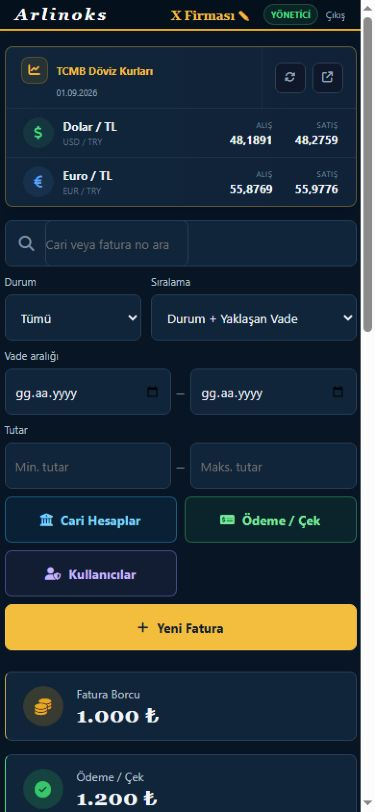
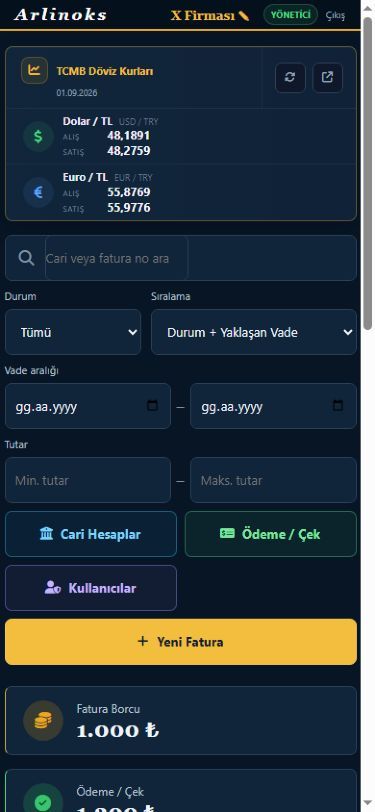
Döviz alış satış kurlarını sıkılaştır

diff --git a/index.html b/index.html
@@ -744,17 +744,28 @@
       max-width: none; min-height: 0; color: #8ea0b4; font-size: 9px;
       line-height: 1.25; text-align: left;
     }
-    .kur-satirlar { min-width: 0; display: grid; grid-template-columns: repeat(2, minmax(0,1fr)); }
+    .kur-satirlar {
+      min-width: 0; display: grid; grid-template-columns: repeat(2, minmax(205px, 240px));
+      justify-content: center;
+    }
     .kur-satir {
-      grid-template-columns: 32px minmax(86px,1fr) minmax(58px,auto) minmax(58px,auto);
-      gap: 10px; padding: 9px 18px;
+      grid-template-columns: 32px minmax(145px,1fr);
+      grid-template-rows: auto repeat(2, minmax(15px,auto));
+      gap: 0 10px; padding: 6px 18px;
     }
     .kur-satir + .kur-satir { border-top: 0; border-left: 1px solid var(--cizgi-yumusak); }
-    .kur-ikon { width: 32px; height: 32px; font-size: 14px; }
-    .kur-para strong { color: #e8eef5; font-size: 12px; }
-    .kur-para small { margin-top: 3px; }
-    .kur-fiyat small { margin-bottom: 2px; color: #75889d; }
-    .kur-fiyat strong { color: #f4f7fa; font-size: 12px; }
+    .kur-ikon { grid-column: 1; grid-row: 1 / 4; width: 32px; height: 32px; align-self: center; font-size: 14px; }
+    .kur-para { grid-column: 2; grid-row: 1; display: flex; align-items: baseline; gap: 7px; }
+    .kur-para strong { display: inline; color: #e8eef5; font-size: 11px; }
+    .kur-para small { display: inline; margin: 0; }
+    .kur-fiyat {
+      grid-column: 2; display: grid; grid-template-columns: 40px minmax(64px,auto);
+      align-items: baseline; gap: 6px; text-align: left;
+    }
+    .kur-fiyat-alis { grid-row: 2; }
+    .kur-fiyat-satis { grid-row: 3; }
+    .kur-fiyat small { display: inline; margin: 0; color: #75889d; }
+    .kur-fiyat strong { display: inline; color: #f4f7fa; font-size: 12px; }
     .kur-islemler {
       display: flex; align-items: center; gap: 7px; padding: 0 13px;
       border-left: 1px solid var(--cizgi-yumusak);
@@ -855,6 +866,7 @@
       .kur-baslik-satir { grid-column: 1; border-right: 0; border-bottom: 1px solid var(--cizgi-yumusak); }
       .kur-durum { flex-basis: 100%; padding-left: 37px; }
       .kur-satirlar { grid-column: 1 / -1; grid-row: 2; grid-template-columns: 1fr; }
+      .kur-satir { grid-template-columns: 32px minmax(0,1fr); }
       .kur-satir + .kur-satir { border-left: 0; border-top: 1px solid var(--cizgi-yumusak); }
       .kur-islemler { grid-column: 2; grid-row: 1; border-left: 1px solid var(--cizgi-yumusak); border-bottom: 1px solid var(--cizgi-yumusak); }
       .form-grid { grid-template-columns: 1fr; }
@@ -1259,14 +1271,14 @@
         <div class="kur-satir">
           <span class="kur-ikon usd" aria-hidden="true"><i class="fa-solid fa-dollar-sign"></i></span>
           <span class="kur-para"><strong>Dolar / TL</strong><small>USD / TRY</small></span>
-          <span class="kur-fiyat"><small>ALIŞ</small><strong id="kur-usd-alis">—</strong></span>
-          <span class="kur-fiyat"><small>SATIŞ</small><strong id="kur-usd-satis">—</strong></span>
+          <span class="kur-fiyat kur-fiyat-alis"><small>ALIŞ</small><strong id="kur-usd-alis">—</strong></span>
+          <span class="kur-fiyat kur-fiyat-satis"><small>SATIŞ</small><strong id="kur-usd-satis">—</strong></span>
         </div>
         <div class="kur-satir">
           <span class="kur-ikon eur" aria-hidden="true"><i class="fa-solid fa-euro-sign"></i></span>
           <span class="kur-para"><strong>Euro / TL</strong><small>EUR / TRY</small></span>
-          <span class="kur-fiyat"><small>ALIŞ</small><strong id="kur-eur-alis">—</strong></span>
-          <span class="kur-fiyat"><small>SATIŞ</small><strong id="kur-eur-satis">—</strong></span>
+          <span class="kur-fiyat kur-fiyat-alis"><small>ALIŞ</small><strong id="kur-eur-alis">—</strong></span>
+          <span class="kur-fiyat kur-fiyat-satis"><small>SATIŞ</small><strong id="kur-eur-satis">—</strong></span>
         </div>
       </div>
       <div class="kur-islemler">

diff --git a/qa/exchange-rate-placement.test.js b/qa/exchange-rate-placement.test.js
@@ -13,5 +13,10 @@ assert.ok(ratePanel < filterPanel, "Döviz kuru şeridi filtrelerin üstünde ye
 assert.equal((html.match(/<section class="kur-panel"/g) || []).length, 1, "Sayfada yalnızca bir döviz kuru şeridi olmalı");
 assert.match(html, /grid-template-columns: minmax\(230px, \.8fr\) minmax\(460px, 1\.8fr\) auto/, "Masaüstünde tek satırlık üst şerit düzeni korunmalı");
 assert.match(html, /\.kur-satirlar \{ grid-column: 1 \/ -1; grid-row: 2;/, "Mobilde kurlar başlığın altında akmalı");
+assert.match(html, /grid-template-columns: repeat\(2, minmax\(205px, 240px\)\)/, "USD ve EUR grupları birbirine yakın tutulmalı");
+assert.match(html, /\.kur-fiyat-alis \{ grid-row: 2; \}/, "Alış kuru üst satırda olmalı");
+assert.match(html, /\.kur-fiyat-satis \{ grid-row: 3; \}/, "Satış kuru alt satırda olmalı");
+assert.match(html, /class="kur-fiyat kur-fiyat-alis"/, "Alış kuru dikey yerleşim sınıfını kullanmalı");
+assert.match(html, /class="kur-fiyat kur-fiyat-satis"/, "Satış kuru dikey yerleşim sınıfını kullanmalı");
 
 console.log("Döviz kuru şeridi konum ve duyarlı yerleşim testleri başarılı.");

diff --git a/qa/service-worker-cache.test.js b/qa/service-worker-cache.test.js
@@ -4,8 +4,8 @@ const fs = require("node:fs");
 const worker = fs.readFileSync("sw.js", "utf8");
 const index = fs.readFileSync("index.html", "utf8");
 
-assert.match(worker, /odeme-takip-v28/, "Önbellek sürümü yükseltilmeli");
-assert.doesNotMatch(worker, /odeme-takip-v27/, "Eski önbellek sürümü kullanılmamalı");
+assert.match(worker, /odeme-takip-v29/, "Önbellek sürümü yükseltilmeli");
+assert.doesNotMatch(worker, /odeme-takip-v28/, "Eski önbellek sürümü kullanılmamalı");
 assert.match(worker, /e\.request\.mode === 'navigate'/, "Sayfa gezinmeleri ayrı ele alınmalı");
 assert.match(worker, /fetch\(e\.request, \{ cache: 'no-store' \}\)/, "Ana sayfa ağdan güncel alınmalı");
 assert.match(worker, /caches\.match\(`\$\{BASE\}index\.html`\)/, "Çevrimdışı ana sayfa yedeği korunmalı");

diff --git a/sw.js b/sw.js
@@ -1,4 +1,4 @@
-const CACHE = 'odeme-takip-v28';
+const CACHE = 'odeme-takip-v29';
 const BASE = self.registration.scope;
 const FILES = [
   `${BASE}index.html`,

diff --git a/design-qa.md b/design-qa.md
@@ -1,46 +1,59 @@
-# Design QA — Üst Döviz Kuru Şeridi
+# Design QA — Sıkı Döviz Kuru Yerleşimi
 
-## Visual source
+## Görsel kaynak ve hedef
 
-- Onaylanan seçenek: `C:\Users\Ryzen\.codex\generated_images\01a022f5-d85b-7ab1-b359-9d4906202cc1\exec-0544b77a-9344-4e41-967f-acb58989d7b0.png`
-- Kaynak boyutu: 1485 × 1059 px
-- Uygulanan masaüstü görüntüsü: `qa/artifacts/exchange-rate-reference-size.png`
-- Uygulanan telefon görüntüsü: `qa/artifacts/exchange-rate-mobile.png`
-- Yan yana karşılaştırma: `qa/artifacts/exchange-rate-comparison.png`
+- Kaynak görünüm: `qa/artifacts/exchange-rate-before-stacked.png`
+- Kullanıcı hedefi: USD ve EUR gruplarını birbirine yaklaştırmak; alış ve satış değerlerini para simgesinin yanında, alış üstte ve satış altta göstermek.
+- Uygulanan masaüstü görünümü: `qa/artifacts/exchange-rate-desktop.png`
+- Uygulanan telefon görünümü: `qa/artifacts/exchange-rate-mobile.png`
+- Odaklı karşılaştırma: `qa/artifacts/exchange-rate-stacked-comparison.png`
 
-## Viewport and state
+## Viewport ve durum
 
-- Masaüstü: 1536 × 1024 CSS viewport, yerel yönetici önizlemesi, bir örnek fatura.
-- Telefon: 390 × 844 CSS viewport, yerel yönetici önizlemesi, aynı örnek veri.
-- Karşılaştırılan durum: sayfa ilk açılışı; döviz kuru yüklü ve filtreler kapalı.
+- Masaüstü: 1920 × 1080 CSS viewport; uygulama içeriği 1920 × 1080 px; yoğunluk 1.
+- Telefon: 390 × 844 CSS viewport; yakalanan içerik 375 × 812 px; yoğunluk 1.
+- Durum: yerel yönetici önizlemesi, TCMB kuru yüklenmiş, bir örnek fatura gösteriliyor.
 
-## Full-view comparison
+## Tam görünüm karşılaştırması
 
-- Döviz kuru şeridi başlığın hemen altına ve filtrelerin üstüne taşındı.
-- Şerit mevcut Arlinoks lacivert/altın görsel sistemiyle uyumlu tutuldu.
-- USD ve EUR alış/satış değerleri tek bakışta okunabilecek iki eşit gruba ayrıldı.
-- Yenile ve TCMB kaynak işlemleri sağ uçta, onaylanan görseldeki konumla eşleşiyor.
-- 1536 px masaüstünde yatay taşma giderildi; “Yeni Fatura” düğmesi tamamen görünür.
+- Döviz şeridinin üst konumu, yüksekliği, renkleri ve mevcut işlevleri korunuyor.
+- USD ve EUR bölümleri 240 px genişliğinde bitişik iki grup olarak ortalandı; önceki geniş yayılım kaldırıldı.
+- Masaüstünde ve telefonda yatay taşma bulunmuyor.
 
-## Focused-region comparison
+## Odaklı bölge karşılaştırması
 
-- Şerit yüksekliği 62 px; filtrelerle arasındaki boşluk 14 px.
-- Başlık, veri tarihi, para birimi ikonları ve alış/satış değerlerinde hiyerarşi korunuyor.
-- Mobil görünümde başlık ve işlemler üst satırda, USD/EUR değerleri alt alta akıyor.
-- 390 px mobil testinde yatay taşma yok.
+- Her para biriminde simge ile kur bilgilerinin yatay mesafesi 10 px.
+- Para birimi adı üstte; alış değeri ikinci satırda, satış değeri üçüncü satırda.
+- “ALIŞ” ve “SATIŞ” etiketleri kendi değerleriyle aynı satırda ve sola hizalı.
+- Telefon görünümünde USD ve EUR grupları alt alta geçiyor; aynı dikey alış/satış sırası korunuyor.
 
-## Findings
+## Gerekli uygunluk yüzeyleri
+
+- Yazı ve tipografi: Mevcut Segoe UI/Georgia hiyerarşisi, ağırlıklar ve sayı okunabilirliği korundu.
+- Boşluk ve yerleşim: Kur grupları sıkılaştırıldı; 10 px simge aralığı ve 0 px grup aralığı hedefi karşılıyor.
+- Renkler: Mevcut lacivert, altın, yeşil ve mavi durum renkleri değişmedi.
+- Görsel ve ikon kalitesi: Var olan Font Awesome dolar/euro ikonları korundu; yeni raster veya yaklaşık ikon üretilmedi.
+- Metin ve içerik: TCMB tarihi, Dolar/TL, Euro/TL, USD/TRY, EUR/TRY, ALIŞ ve SATIŞ metinleri korundu.
+
+## Bulgular
 
 - P0: Yok.
 - P1: Yok.
 - P2: Yok.
-- Kabul edilen ürün kısıtı: Onay yalnızca döviz alanını kapsadığı için mevcut Arlinoks üst menüsü ve canlı veri yapısı değiştirilmedi.
 
-## Comparison history
+## Karşılaştırma geçmişi
 
-1. İlk karşılaştırmada 1536 px görünümde filtre işlemlerinin 17 px taştığı görüldü.
-2. İşlem düğmeleri ve filtre aralıkları sıkılaştırıldı.
-3. İkinci karşılaştırmada `scrollWidth` ve `clientWidth` 1536 px olarak eşitlendi.
-4. Masaüstü ve mobil tarayıcı konsolunda hata bulunmadı.
+1. İlk uygulamada alış/satış iki satıra alındı ancak para simgesiyle arasında yaklaşık 100 px mesafe kaldı.
+2. Kur kartı iki sütunlu yapıya çevrildi; para adı ve iki kur satırı simgenin hemen yanına taşındı.
+3. Son kanıtta simge-kur aralığı 10 px, alış satırı satış satırının üstünde ve iki kur grubu bitişik ölçüldü.
+4. Mobil görünümde `scrollWidth` ve `clientWidth` 375 px olarak eşit; tarayıcı konsol hatası yok.
+
+## Uygulama kontrol listesi
+
+- [x] USD ve EUR gruplarını yakınlaştır.
+- [x] Alış değerini üst satıra yerleştir.
+- [x] Satış değerini alt satıra yerleştir.
+- [x] Kur bilgilerini para simgesinin yanına taşı.
+- [x] Masaüstü ve telefon taşmasını kontrol et.
 
 final result: passed
